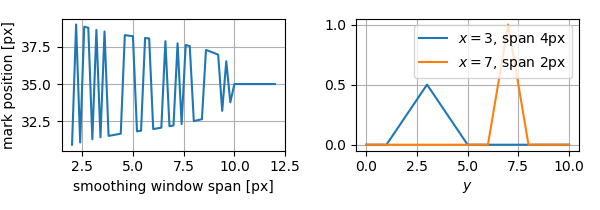
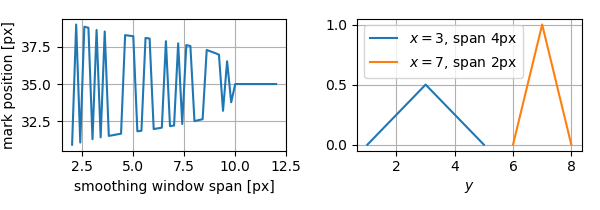
Add plot method to LinFunction

diff --git a/functions.py b/functions.py
@@ -196,6 +196,16 @@ class LinFunction(Function):
         d_vals = np.array([v2-v1 for v1, v2 in self.values])
         return ConstFunction(self.nodes, d_vals / np.diff(self.nodes))
 
+    def plot(self, *args, **kwargs):
+        """
+        Plot self using matplotlib, *args and **kwargs are passed to
+        `matplotlib.pyplot.plot`.
+        """
+        x = [self.nodes[0],] + sum([[n, n] for n in self.nodes[1:-1]], []) \
+            + [self.nodes[-1],]
+        y = sum(self.values, [])
+        plt.plot(x, y, *args, **kwargs)
+
 def get_window(x0, span=2):
     nodes = [x0-span, x0, x0+span]
     values = [[0, 1. / span], [1. / span, 0]]
@@ -240,10 +250,10 @@ def test_smoothing():
     """
     x = np.linspace(0, 10, 101)
 
-    data = ConstFunction([1, 2, 4, 5, 7, 8], [1, 3, 2, 1, 2, 1])
-    smooth_fun = smoothe(data, get_window)
+    data = ConstFunction([1, 2, 4, 5, 7, 8], [1, 3, 2, 1, 2])
+    smooth_fun = smoothe(data, get_window, 2)
 
-    plt.plot(x, data(x), label='data')
+    data.plot(label='data')
     plt.plot(x, smooth_fun(x))
 
     xx = np.linspace(0, 10, 401)

diff --git a/examples/ex01_accuracy.py b/examples/ex01_accuracy.py
@@ -53,8 +53,8 @@ if __name__ == '__main__':
     x = np.linspace(0, 10, 10*2+1)
     win_1 = functions.get_window(3)
     win_2 = functions.get_window(7, 1)
-    plt.plot(x, win_1(x), label='$x=3$, span 4px')
-    plt.plot(x, win_2(x), label='$x=7$, span 2px')
+    win_1.plot(label='$x=3$, span 4px')
+    win_2.plot(label='$x=7$, span 2px')
     plt.xlabel('$y$')
     plt.legend(loc='best').draggable()
     plt.grid()
